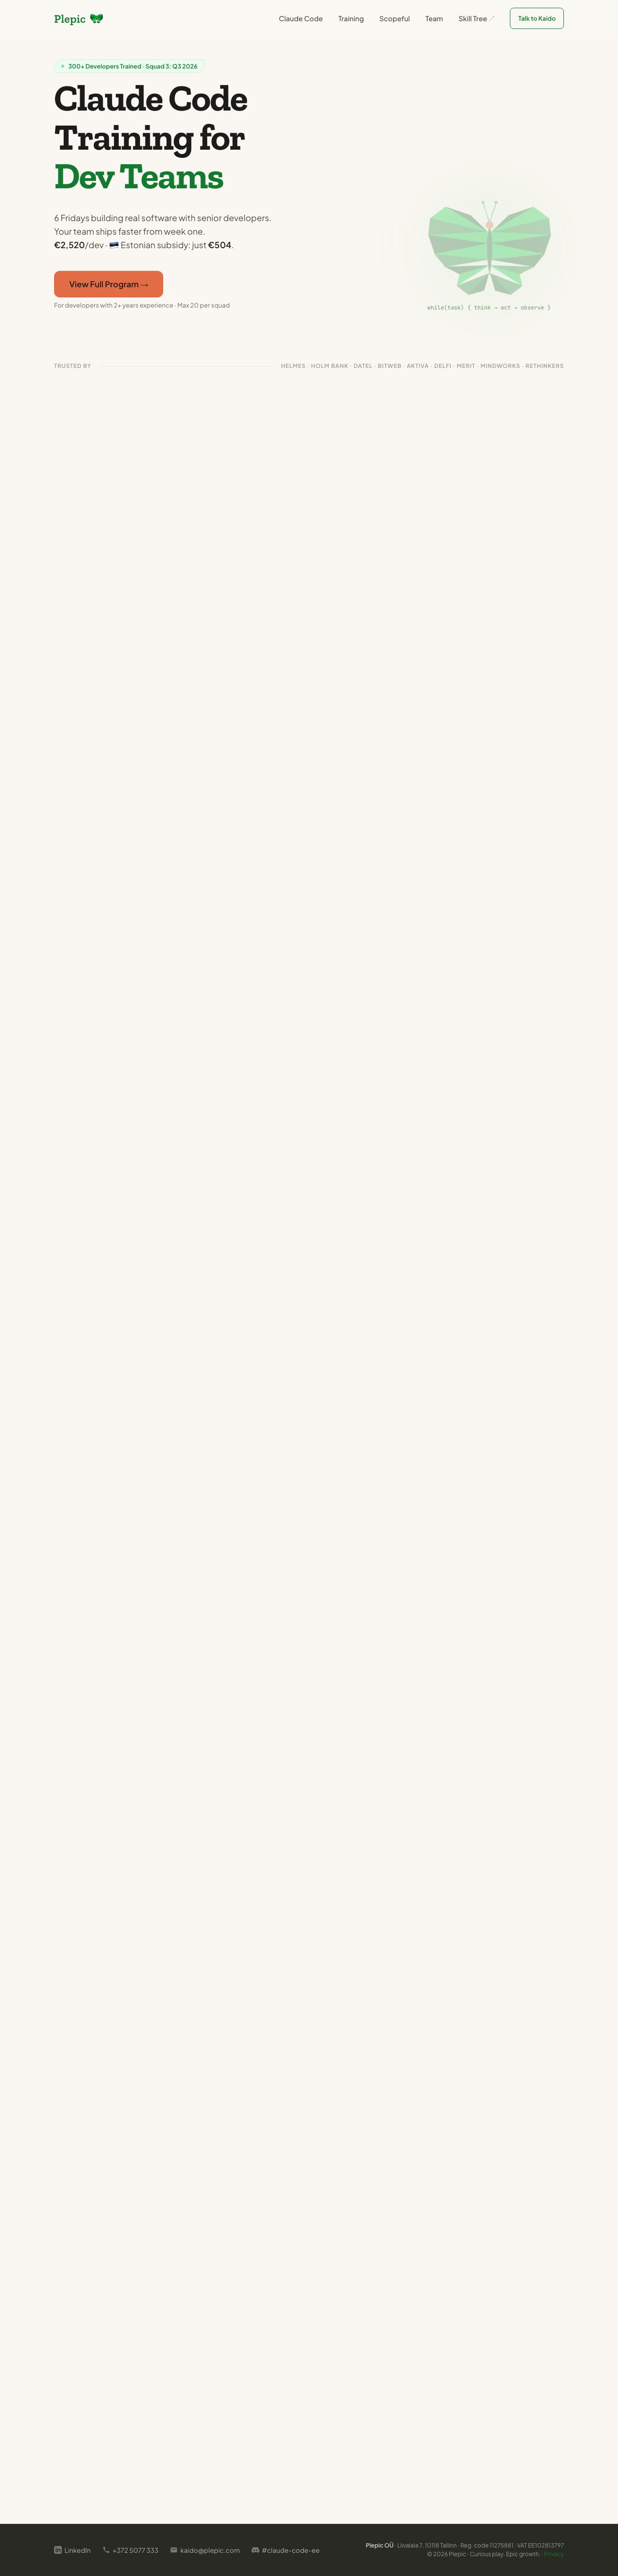
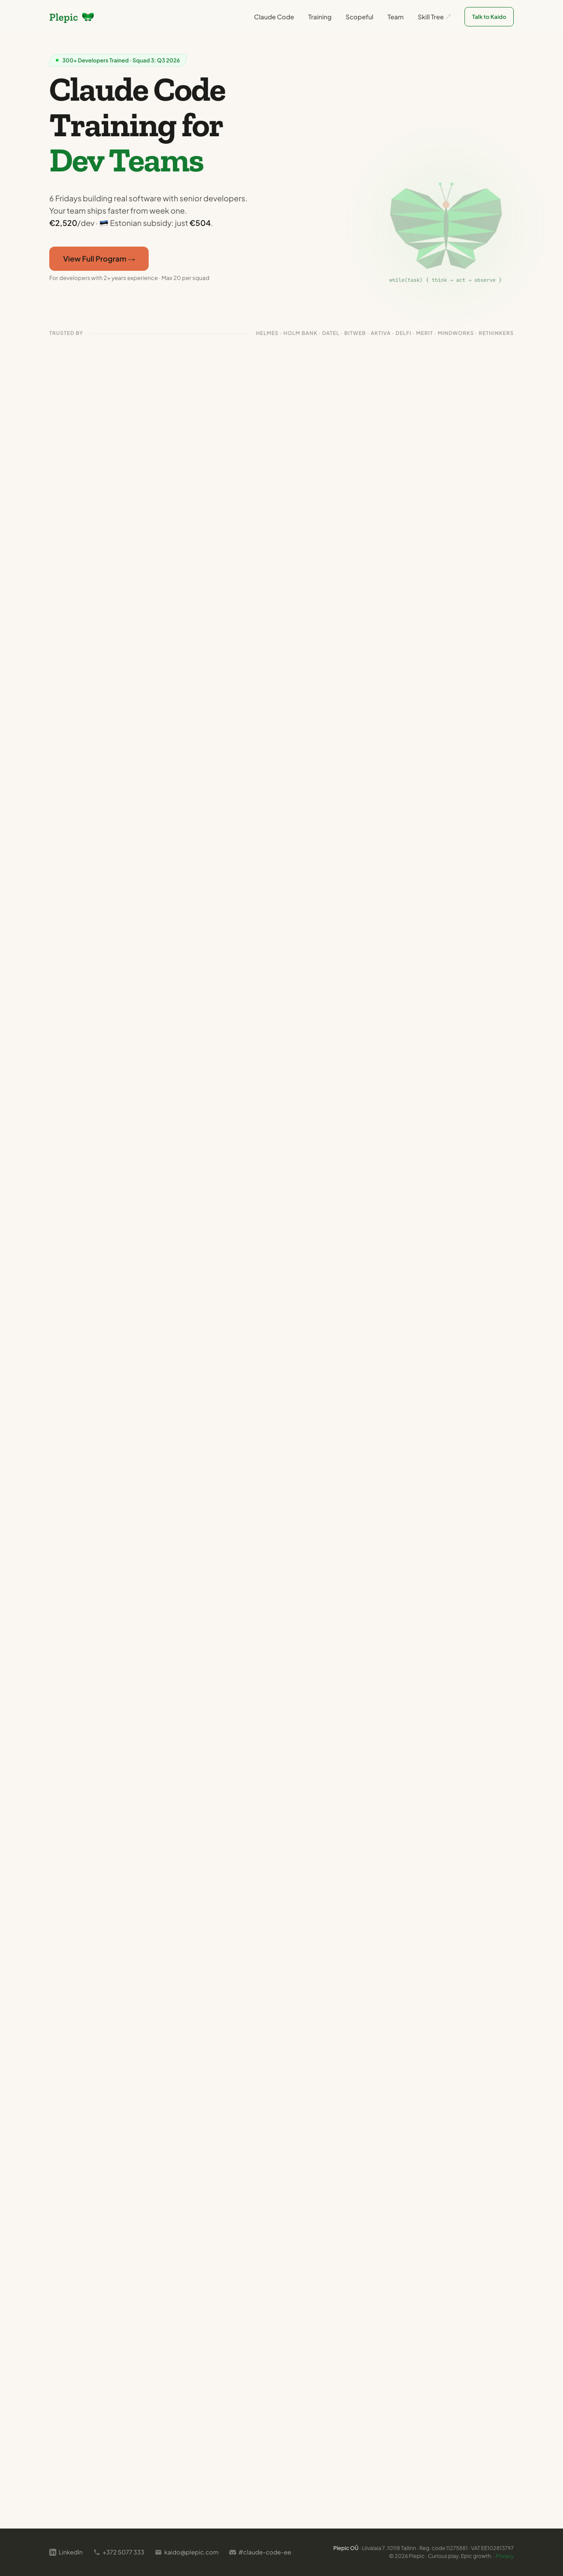
feat(homepage): closing dark CTA section
The homepage previously ended at FAQ then footer; its conversion moment
was buried mid-page (critique P1, peak-end rule). New final section uses
the system's documented-but-unused dark device: slab heading with vivid
highlight, single orange CTA, reassurance microcopy before the external
calendar jump, ghost link to /training/ as the lower-commitment path.
Sticky CTA yields over the new primary button (verified). Homepage
snapshots refreshed.

diff --git a/css/styles.css b/css/styles.css
@@ -1645,6 +1645,39 @@ p:last-child {
   color: var(--text);
 }
 
+/* Closing CTA — the homepage's single dark section */
+.closing-section {
+  background: var(--dark);
+}
+
+.closing-content {
+  max-width: 600px;
+  margin: 0 auto;
+  text-align: center;
+}
+
+.closing-content h2 {
+  color: var(--text-on-dark);
+  margin-bottom: var(--space-lg);
+}
+
+.closing-content > p {
+  font-size: 1.05rem;
+  color: #a3a39a;
+  margin-bottom: var(--space-2xl);
+}
+
+.closing-alt {
+  margin-top: var(--space-xl);
+  font-size: 0.9rem;
+}
+
+.closing-alt a {
+  color: var(--green-vivid);
+  text-decoration: underline;
+  text-underline-offset: 3px;
+}
+
 /* ========================================
    Scopeful Page
    ======================================== */

diff --git a/index.html b/index.html
@@ -599,6 +599,18 @@
       </div>
     </section>
 
+    <!-- Section 8: Closing CTA -->
+    <section class="closing-section section reveal">
+      <div class="container">
+        <div class="closing-content on-dark reveal">
+          <h2>See the shift on <span class="highlight">your codebase</span></h2>
+          <p>A 30-minute call with Kaido. No prep, no slides, no obligation: bring one real task from your backlog and we'll talk through what an agent would do with it.</p>
+          <a href="https://calendar.app.google/h5sq5y19e8a11GRQ7" target="_blank" rel="noopener noreferrer" class="btn btn-primary btn-lg">Book a 30-minute call</a>
+          <p class="closing-alt">Not ready to talk? <a href="/training/">See the 6-week program &rarr;</a></p>
+        </div>
+      </div>
+    </section>
+
   </main>
 
   <!-- Footer -->